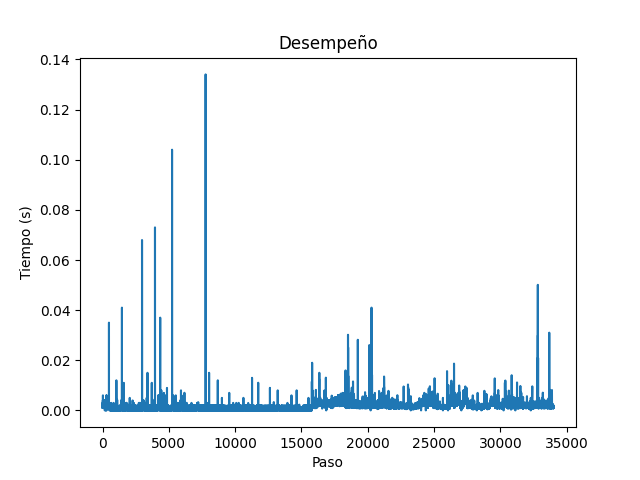
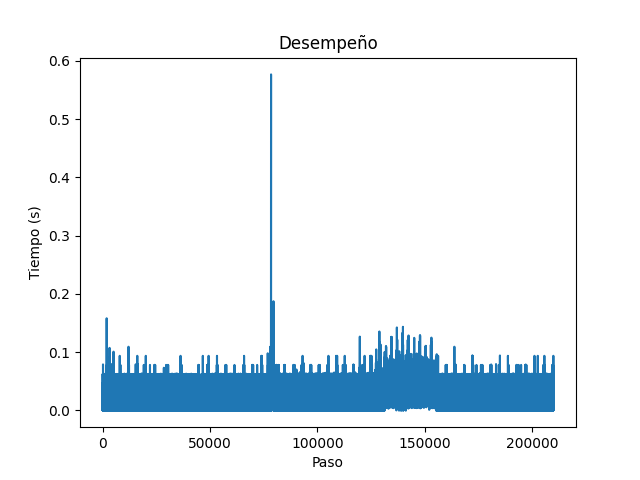
creacion de Dotplots secuencial

diff --git a/Logica/Secuencial.py b/Logica/Secuencial.py
@@ -7,6 +7,10 @@ import numpy as np
 import matplotlib.pyplot as plt
 import time
 import Utilidades as util
+import matplotlib
+
+# Cambiar el backend a Agg
+matplotlib.use('Agg')
 
 def read_fasta(file_path):
     """Lee una o más secuencias de un archivo FASTA y las concatena"""
@@ -15,7 +19,6 @@ def read_fasta(file_path):
         for seq_record in SeqIO.parse(file, "fasta"):
             sequences.append(str(seq_record.seq))
     return ''.join(sequences)
-
 
 def estimate_remaining_time(start_time, current_step, total_steps):
     """Estima el tiempo restante para completar la ejecución"""
@@ -29,51 +32,32 @@ def estimate_remaining_time(start_time, current_step, total_steps):
     estimated_remaining_time = remaining_steps / steps_per_second
     return estimated_remaining_time
 
-
 def monitor_memory(used_bytes, max_system_percentage):
     """Monitoriza el uso de memoria y devuelve True si se excede el umbral"""
     process = psutil.Process(os.getpid())
     memory_info = process.memory_info()
     return memory_info.rss > used_bytes or psutil.virtual_memory().percent > max_system_percentage
 
-
 def create_dotplot(seq1, seq2, output_dir, window_size=500, step_size=100, memory_limit=5*1024**3, max_system_memory=85):
     """Crea y dibuja un dotplot por partes usando una ventana deslizante"""
     len1, len2 = len(seq1), len(seq2)
-    fig, ax = plt.subplots(figsize=(10, 10))
-
     total_steps = ((len1 - window_size) // step_size + 1) * ((len2 - window_size) // step_size + 1)
     current_step = 0
-
     start_time = time.time()
     last_save_time = start_time
-    save_interval = 1 * 60  # 1 minuto en segundos
+    save_interval = 60 * 60  # 60 minutos en segundos (1 hora)
     image_counter = 0
 
     os.makedirs(output_dir, exist_ok=True)
-
     elapsed_times = []
-    # last_adjust_time = 0
-    # adjustment_interval = 10  # Ajustar cada 10 segundos
-    
-    # min_window_size = 100
-    # min_step_size = 10
 
     for i in range(0, len1 - window_size + 1, step_size):
         for j in range(0, len2 - window_size + 1, step_size):
 
-            # if monitor_memory(memory_limit, max_system_memory):
-            #     current_time = time.time()
-            #     if current_time - last_adjust_time >= adjustment_interval:
-            #         print("Uso de memoria cerca del límite. Liberando memoria y ajustando parámetros.")
-            #         gc.collect()  # Forzar recolección de basura
-            #         # Ajustar tamaño de ventana y paso si es necesario
-            #         if window_size > min_window_size:
-            #             window_size = max(min_window_size, window_size // 2)
-            #         if step_size > min_step_size:
-            #             step_size = max(min_step_size, step_size // 2)
-            #         last_adjust_time = current_time
-            #     continue
+            if monitor_memory(memory_limit, max_system_memory):
+                print("Uso de memoria cerca del límite. Liberando memoria.")
+                gc.collect()
+                continue
 
             step_start_time = time.time()
 
@@ -83,6 +67,7 @@ def create_dotplot(seq1, seq2, output_dir, window_size=500, step_size=100, memor
 
             dotplot = (window1[:, None] == window2).astype(np.int8)
 
+            fig, ax = plt.subplots(figsize=(10, 10))
             ax.imshow(dotplot, cmap='gray_r', extent=(j, j+window_size, i, i+window_size), origin='lower')
 
             step_elapsed_time = time.time() - step_start_time
@@ -92,7 +77,6 @@ def create_dotplot(seq1, seq2, output_dir, window_size=500, step_size=100, memor
             if current_step % 2000 == 0:
                 elapsed_time = time.time() - start_time
                 remaining_time = estimate_remaining_time(start_time, current_step, total_steps)
-
                 print(f"Progreso: {current_step}/{total_steps} pasos completados. Tiempo transcurrido: {elapsed_time:.2f} segundos. Tiempo restante estimado: {remaining_time:.2f} segundos")
 
                 current_time = time.time()
@@ -102,16 +86,16 @@ def create_dotplot(seq1, seq2, output_dir, window_size=500, step_size=100, memor
                     plt.savefig(image_path)
                     print(f"Imagen intermedia guardada en {image_path}")
                     last_save_time = current_time
-
                     util.desempeño(elapsed_times, output_dir)
 
                 gc.collect()
 
-    ax.set_xlabel('Secuencia 2')
-    ax.set_ylabel('Secuencia 1')
-    ax.set_title('Dotplot de E. coli vs Salmonella')
-    plt.show()
+            plt.close(fig)  # Cierra la figura para liberar memoria
 
+    final_image_path = os.path.join(output_dir, 'dotplot_final.png')
+    plt.savefig(final_image_path)
+    print(f"Dotplot final guardado en {final_image_path}")
+    gc.collect()
 
 def main(seq1_path, seq2_path, memory_limit, max_system_memory):
     overall_start_time = time.time()
@@ -144,6 +128,9 @@ if __name__ == "__main__":
     args = parser.parse_args()
     
     main(args.seq1, args.seq2, args.memory_limit * 1024**3, args.max_system_memory)
+
+
+
 
     
 #EJECUTAR python Logica\Secuencial.py Archivos\E_coli.fna Archivos\Salmonella.fna
